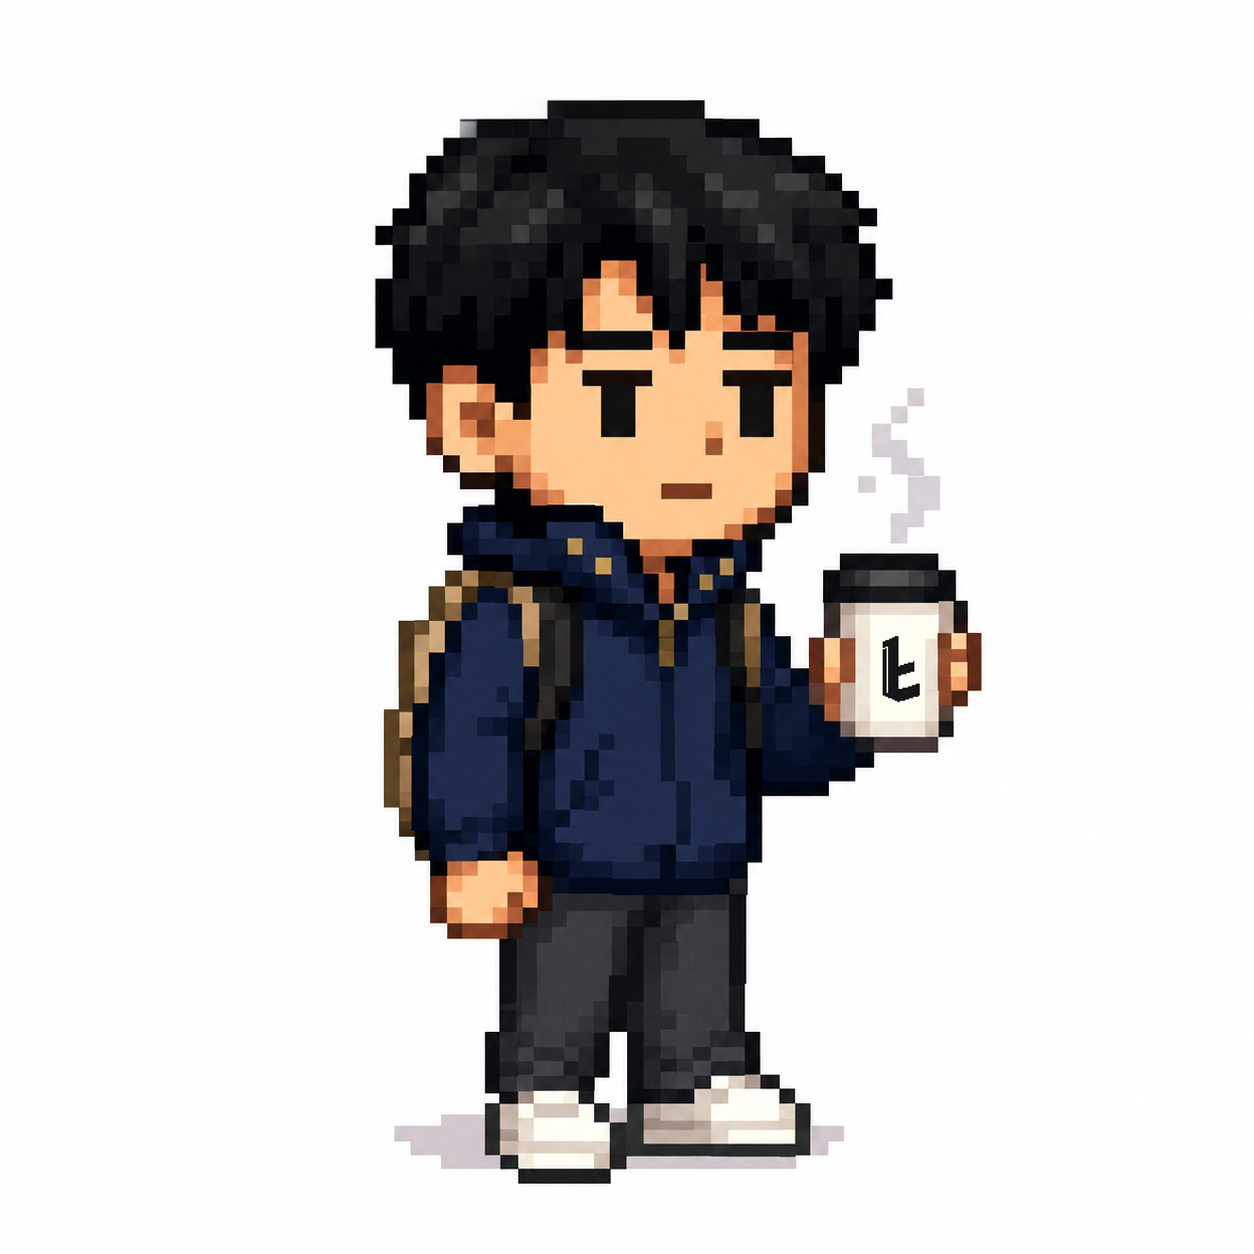
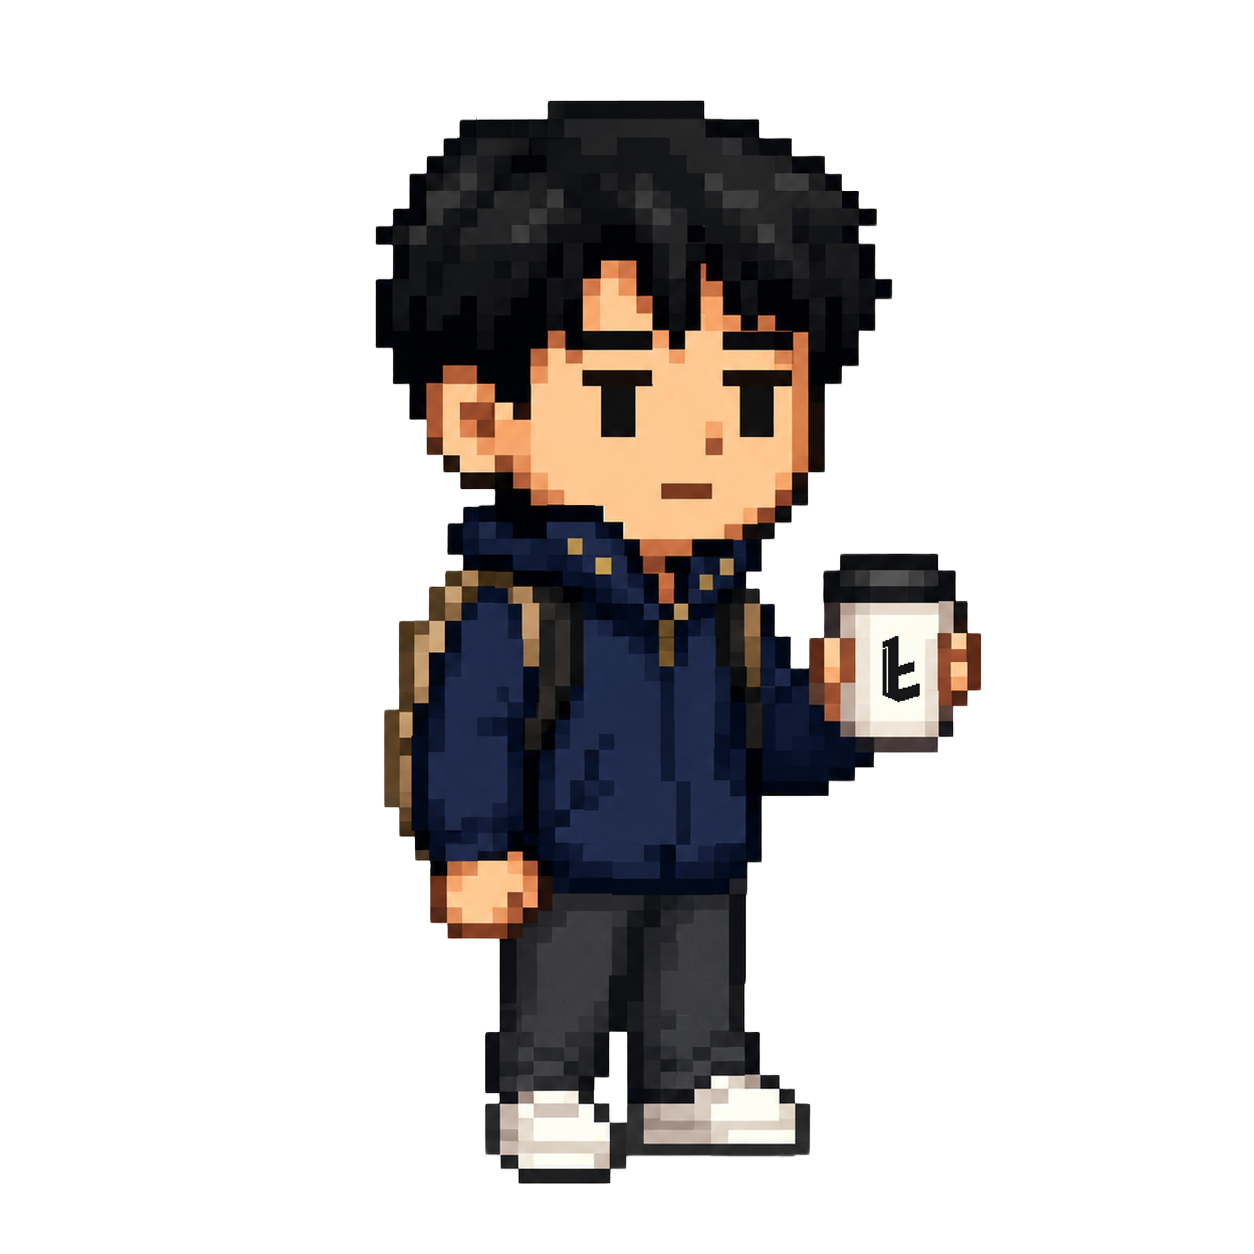
redesign UI - claymorphism soft UI theme

diff --git a/src/components/HomeView.jsx b/src/components/HomeView.jsx
@@ -1,6 +1,6 @@
 import { useState } from 'react'
 import dayjs from 'dayjs'
-import { Plus, ChevronRight } from 'lucide-react'
+import { Plus } from 'lucide-react'
 import mascot from '../assets/mascot.png'
 import { usePeople } from '../hooks/usePeople'
 import { usePendingByPerson } from '../hooks/useCoffeeEntries'
@@ -9,69 +9,106 @@ import AddDebtModal from './AddDebtModal'
 import AddMemberModal from './AddMemberModal'
 import PersonHistoryModal from './PersonHistoryModal'
 
-const CURRENCY_SYMBOL = { '฿': '฿', '₭': '₭', '$': '$' }
-
 export default function HomeView() {
   const { people } = usePeople()
   const { data: pendingPeople, loading, refetch } = usePendingByPerson()
-  const [selectedPerson, setSelectedPerson] = useState(null)   // quick add (member row)
-  const [historyPerson, setHistoryPerson] = useState(null)     // unpaid card
+  const [selectedPerson, setSelectedPerson] = useState(null)
+  const [historyPerson, setHistoryPerson] = useState(null)
   const [showAddMember, setShowAddMember] = useState(false)
 
-  const totalPendingThb = pendingPeople.reduce((s, p) => s + (p.totals['฿'] || 0), 0)
-
   return (
-    <div className="bg-[#F2F2F7] min-h-screen">
+    <div className="min-h-screen" style={{ background: '#EEF0F5' }}>
 
+      {/* Hero header */}
+      <div className="relative overflow-hidden px-5 pt-12 pb-8"
+        style={{ background: 'linear-gradient(160deg, #E8EEF5 0%, #EDF3F0 100%)' }}>
 
-      {/* Members row */}
-      <div className="bg-white mt-3 px-5 py-5">
-        <div className="flex items-start gap-5 overflow-x-auto pb-1 scrollbar-none">
-          {/* Mascot */}
-          <div className="flex flex-col items-center gap-2 shrink-0">
-            <img src={mascot} alt="mascot" className="w-20 h-20 object-contain" />
+        {/* Blob decorations */}
+        <div className="absolute -top-8 -right-8 w-44 h-44 rounded-full blur-2xl opacity-60"
+          style={{ background: 'linear-gradient(135deg, #B8D8C8, #A8CCE0)' }} />
+        <div className="absolute -bottom-6 left-8 w-32 h-32 rounded-full blur-2xl opacity-50"
+          style={{ background: 'linear-gradient(135deg, #F0D8C0, #E8C8B0)' }} />
+        <div className="absolute top-6 left-1/3 w-24 h-24 rounded-full blur-xl opacity-40"
+          style={{ background: '#D4E8D8' }} />
+
+        <div className="relative flex items-end justify-between">
+          <img src={mascot} alt="" className="w-28 h-28 object-contain drop-shadow-lg shrink-0" />
+          <div className="text-right">
+            <p className="text-xs font-medium mb-0.5" style={{ color: '#8A9BAA' }}>
+              {dayjs().format('ddd, D MMM YYYY')}
+            </p>
+            <p className="text-xs mb-2" style={{ color: '#8A9BAA' }}>Pending payments</p>
+            <p className="text-5xl font-bold tracking-tight" style={{ color: '#2D3A48' }}>
+              {pendingPeople.length}
+              <span className="text-lg font-normal ml-1" style={{ color: '#8A9BAA' }}>people</span>
+            </p>
           </div>
-          <div className="w-px self-stretch bg-gray-100 shrink-0 my-1" />
-          {/* Add button */}
+        </div>
+      </div>
+
+      {/* Members card */}
+      <div className="mx-4 -mt-4 relative z-10 rounded-3xl px-4 py-4"
+        style={{
+          background: 'rgba(255,255,255,0.75)',
+          backdropFilter: 'blur(20px)',
+          boxShadow: '0 8px 32px rgba(100,120,140,0.12), inset 0 1px 0 rgba(255,255,255,0.9)',
+          border: '1px solid rgba(255,255,255,0.8)'
+        }}>
+        <div className="flex items-start gap-4 overflow-x-auto pb-1 scrollbar-none">
           <div className="flex flex-col items-center gap-2 shrink-0">
             <button
               onClick={() => setShowAddMember(true)}
-              className="w-12 h-12 rounded-full border border-dashed border-gray-300 flex items-center justify-center text-gray-400 hover:border-gray-500 hover:text-gray-600 transition-colors"
+              className="w-12 h-12 rounded-2xl flex items-center justify-center transition-all active:scale-95"
+              style={{
+                background: 'linear-gradient(135deg, #E8EEF5, #DDE5EE)',
+                boxShadow: '4px 4px 8px rgba(100,120,140,0.15), -2px -2px 6px rgba(255,255,255,0.8)',
+                color: '#8A9BAA',
+                border: 'none'
+              }}
             >
               <Plus size={18} />
             </button>
-            <span className="text-[11px] text-gray-400">Add</span>
+            <span className="text-[11px] font-medium" style={{ color: '#8A9BAA' }}>Add</span>
           </div>
-          <div className="w-px self-stretch bg-gray-100 shrink-0 my-1" />
+          <div className="w-px self-stretch shrink-0 my-1" style={{ background: 'rgba(0,0,0,0.06)' }} />
           {people.map(p => (
             <button
               key={p.id}
               onClick={() => setSelectedPerson(p)}
-              className="flex flex-col items-center gap-2 shrink-0 group"
+              className="flex flex-col items-center gap-2 shrink-0 active:scale-95 transition-transform"
             >
-              <div className="w-12 h-12 rounded-full overflow-hidden ring-2 ring-transparent group-hover:ring-gray-300 transition-all">
+              <div className="w-12 h-12 rounded-2xl overflow-hidden"
+                style={{ boxShadow: '4px 4px 8px rgba(100,120,140,0.2), -2px -2px 6px rgba(255,255,255,0.9)' }}>
                 <Avatar name={p.name} size="md" />
               </div>
-              <span className="text-[11px] text-gray-500 max-w-[48px] truncate">{p.name}</span>
+              <span className="text-[11px] font-medium max-w-[48px] truncate" style={{ color: '#6A7D8E' }}>{p.name}</span>
             </button>
           ))}
         </div>
       </div>
 
-      {/* Pending */}
-      <div className="mt-3 px-5 py-5">
-        <div className="flex items-center justify-between mb-4">
-          <p className="text-sm font-semibold text-gray-900">Unpaid</p>
-          <span className="text-xs text-gray-400">{pendingPeople.length} people</span>
+      {/* Unpaid section */}
+      <div className="px-4 mt-5 pb-8">
+        <div className="flex items-center justify-between mb-3">
+          <p className="text-sm font-bold" style={{ color: '#2D3A48' }}>Unpaid</p>
+          <span className="text-xs px-3 py-1 rounded-full font-medium"
+            style={{ background: 'rgba(255,255,255,0.8)', color: '#8A9BAA', boxShadow: '2px 2px 6px rgba(100,120,140,0.1)' }}>
+            {pendingPeople.length} people
+          </span>
         </div>
 
         {loading ? (
-          <div className="text-center py-10 text-gray-300 text-sm">Loading...</div>
+          <div className="text-center py-10 text-sm" style={{ color: '#8A9BAA' }}>Loading...</div>
         ) : pendingPeople.length === 0 ? (
-          <div className="bg-white rounded-2xl text-center py-8 px-4">
-            <img src={mascot} alt="All cleared" className="w-32 h-32 mx-auto object-contain" />
-            <p className="text-sm font-semibold text-gray-700 mt-2">All cleared!</p>
-            <p className="text-xs text-gray-400 mt-1">No pending payments</p>
+          <div className="rounded-3xl text-center py-10 px-4"
+            style={{
+              background: 'rgba(255,255,255,0.75)',
+              boxShadow: '0 8px 24px rgba(100,120,140,0.1)',
+              border: '1px solid rgba(255,255,255,0.9)'
+            }}>
+            <img src={mascot} alt="" className="w-24 h-24 mx-auto object-contain" />
+            <p className="text-sm font-bold mt-2" style={{ color: '#2D3A48' }}>All cleared! 🎉</p>
+            <p className="text-xs mt-1" style={{ color: '#8A9BAA' }}>No pending payments</p>
           </div>
         ) : (
           <div className="grid grid-cols-2 gap-3">
@@ -79,16 +116,23 @@ export default function HomeView() {
               <button
                 key={p.name}
                 onClick={() => setHistoryPerson({ name: p.name })}
-                className="bg-red-50 rounded-2xl p-4 text-left active:scale-95 transition-transform border border-red-100"
+                className="rounded-3xl p-4 text-left active:scale-95 transition-all"
+                style={{
+                  background: 'rgba(255,255,255,0.8)',
+                  boxShadow: '6px 6px 16px rgba(100,120,140,0.15), -2px -2px 8px rgba(255,255,255,0.9)',
+                  border: '1px solid rgba(255,255,255,0.9)'
+                }}
               >
-                <div className="mb-3">
-                  <Avatar name={p.name} size="sm" />
+                {/* Colored blob accent */}
+                <div className="w-8 h-8 rounded-2xl mb-3 flex items-center justify-center text-xs font-bold text-white"
+                  style={{ background: 'linear-gradient(135deg, #F0A090, #E8807A)' }}>
+                  {p.name.slice(0,2).toUpperCase()}
                 </div>
-                <p className="font-semibold text-gray-900 text-sm truncate mb-0.5">{p.name}</p>
-                <p className="text-[11px] text-red-300 mb-3">{dayjs(p.latestDate).format('D MMM YYYY')}</p>
+                <p className="font-bold text-sm truncate mb-0.5" style={{ color: '#2D3A48' }}>{p.name}</p>
+                <p className="text-[11px] mb-3" style={{ color: '#8A9BAA' }}>{dayjs(p.latestDate).format('D MMM YYYY')}</p>
                 <div className="flex flex-col gap-0.5">
                   {Object.entries(p.totals).map(([cur, amt]) => (
-                    <p key={cur} className="text-sm font-semibold text-red-500">
+                    <p key={cur} className="text-sm font-bold" style={{ color: '#E07060' }}>
                       -{cur}{amt.toLocaleString()}
                     </p>
                   ))}

diff --git a/src/App.jsx b/src/App.jsx
@@ -18,27 +18,29 @@ export default function App() {
   const [tab, setTab] = useState('home')
 
   return (
-    <div className="min-h-screen bg-[#F2F2F7] flex flex-col max-w-md mx-auto">
+    <div className="min-h-screen flex flex-col max-w-md mx-auto" style={{ background: '#EEF0F5' }}>
       <div className="flex-1 overflow-y-auto pb-20">
         {tab === 'home'    && <HomeView />}
-        {tab === 'monthly' && <div className="px-5 pt-14"><h2 className="text-xl font-semibold text-gray-900 mb-5">Monthly</h2><MonthlyView /></div>}
+        {tab === 'monthly' && <div className="px-5 pt-14 min-h-screen" style={{ background: '#EEF0F5' }}><h2 className="text-xl font-bold mb-5" style={{ color: '#3D2B3D' }}>Monthly</h2><MonthlyView /></div>}
         {tab === 'history' && <HistoryView />}
-        {tab === 'members' && <div className="px-5 pt-14"><MembersView /></div>}
-        {tab === 'items'   && <div className="px-5 pt-14"><ItemsView /></div>}
+        {tab === 'members' && <div className="px-5 pt-14 min-h-screen" style={{ background: '#EEF0F5' }}><MembersView /></div>}
+        {tab === 'items'   && <div className="px-5 pt-14 min-h-screen" style={{ background: '#EEF0F5' }}><ItemsView /></div>}
       </div>
 
       {/* Bottom nav */}
-      <div className="fixed bottom-0 left-1/2 -translate-x-1/2 w-full max-w-md bg-white/80 backdrop-blur border-t border-gray-200/60 flex z-40">
+      <div
+        className="fixed bottom-0 left-1/2 -translate-x-1/2 w-full max-w-md flex z-40"
+        style={{ background: 'rgba(238,240,245,0.95)', backdropFilter: 'blur(20px)', borderTop: '1px solid rgba(255,255,255,0.7)' }}
+      >
         {TABS.map(({ key, label, icon: Icon }) => (
           <button
             key={key}
             onClick={() => setTab(key)}
-            className={`flex-1 flex flex-col items-center gap-1 py-3 transition-colors ${
-              tab === key ? 'text-gray-900' : 'text-gray-400'
-            }`}
+            className="flex-1 flex flex-col items-center gap-1 py-3 transition-all"
+            style={{ color: tab === key ? '#6A9BAA' : '#8A9BAA' }}
           >
             <Icon size={19} strokeWidth={tab === key ? 2.2 : 1.6} />
-            <span className={`text-[10px] ${tab === key ? 'font-semibold' : 'font-normal'}`}>{label}</span>
+            <span className={`text-[10px] ${tab === key ? 'font-bold' : 'font-normal'}`}>{label}</span>
           </button>
         ))}
       </div>